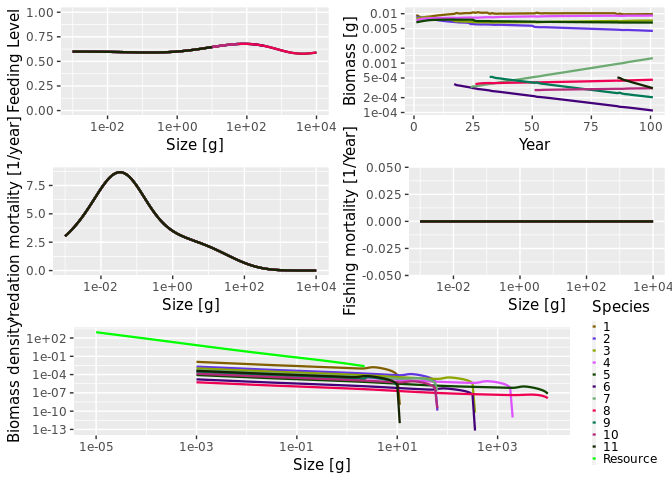
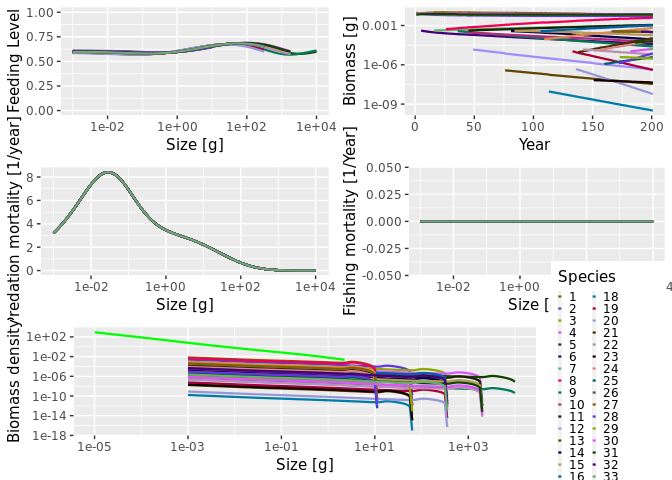
updating read me

diff --git a/README.md b/README.md
@@ -14,7 +14,9 @@ more in details further down.
 
 3.  [Running a simulation](#running-a-simulation).
 
-4.  [Exploring the results](#exploring-the-results).
+4.  [Additional functions](#additional-functions)
+
+5.  [Exploring the results](#exploring-the-results).
 
 ## Installing mizerEvolution
 
@@ -47,7 +49,16 @@ function. `evoParams()` adds the `lineage` parameter which is used to
 track the ancetry tree of species and the `RDD` parameter which is used
 to set the recruitment function. It’s default is `extinctionRDD()` which
 allow species to be removed from the ecosystem when they reach an
-abundance below \(10^{-30}ind.m^{-3}\).
+abundance below \(10^{-30}ind.m^{-3}\). In mizerEvolution, evolution
+comes from allowing specific parameters to change through time. These
+parameters are defined in the `trait` argument of `evoProject`. During
+the simulation, species will be considered as pool of phenotypes, each
+with a slighty different trait value. These phenotypes are generated
+semi-randomly, using only a rate of apparition inputed by the user. The
+phenotypes compete between each others and are pooled together only
+during the reproduction phase since they are still part of a same
+species. Generating phenotypes and removing the less abundant proxy
+natural selection and trait adaptation.
 
 ``` r
 params <- evoParams(no_sp = 5 )
@@ -62,15 +73,26 @@ new phenotypes using the `mutation` parameter (rate of apparition of new
 phenotypes in the simulation). The `trait` parameter determines which
 species parameter is going to vary during the simulation and
 differentiate phenotypes between each other within each species. The
-default is set to `w_mat`, the maturation size.
+default is set to `w_mat`, the maturation
+size.
 
 ``` r
-sim <- evoProject(params = params, mutation = 3, trait = "w_mat")
-#> 13 mutants will be added
+sim <- evoProject(params = params, t_max = 200, mutation = 3, trait = "beta")
+#> 28 mutants will be added
 ```
 
 This produces an object of class `MizerSim` which contains the results
 of the simulation.
+
+## Additional functions
+
+The parameter `initPool` in `evoProject()` allows to initiate species as
+pool of phenotypes. Instead of starting with species composed of one
+phenotypes each, having `initPool = 5` will add 5 randomly generated
+phenotypes per species at the start of the simulation (for a total of 6
+phenotypes per species). The parameter `initCondition` allows to input a
+mizer object instead of a mizer param. This allows to start simulations
+from previously saved simulations.
 
 ## Exploring the results
 
@@ -185,7 +207,7 @@ The trait value of the phenotypes can be displayed per phenotypes as a
 continuous gradient, only available when only one species is selected
 
 ``` r
-plotDynamics(sim, species = 2, trait = sim@params@species_params$w_mat)
+plotDynamics(sim, species = 2, trait = sim@params@species_params$beta)
 ```
 
 ![](man/figures/plotDynamics%204-1.png)<!-- -->
@@ -264,6 +286,18 @@ plotevoMortality(sim)
 ```
 
 ![](man/figures/plotScythe-1.png)<!-- -->
+
+## Trait evolution
+
+``` r
+
+plotevoTrait(sim, traitID = "beta", returnData = F)
+```
+
+![](man/figures/plotevoTrait-1.png)<!-- -->
+
+    #> [[1]]
+    #> list()
 
 The following plots are not avaialble on this version yet but are
 examples of what you can get with biomass data and trait evolution
